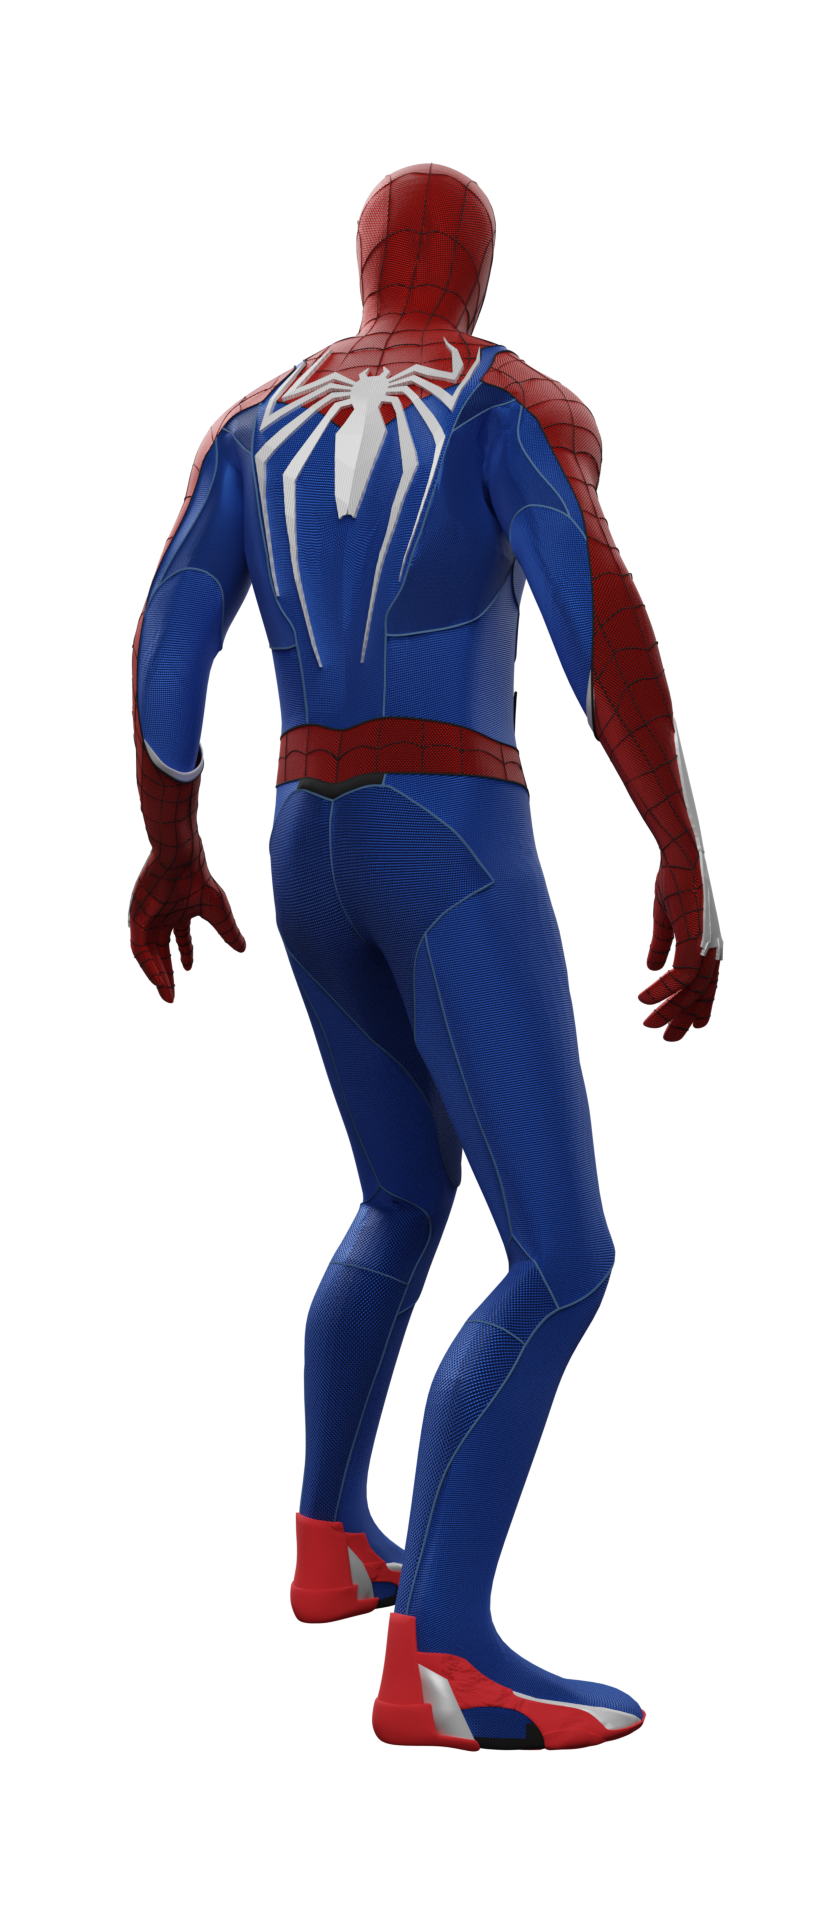
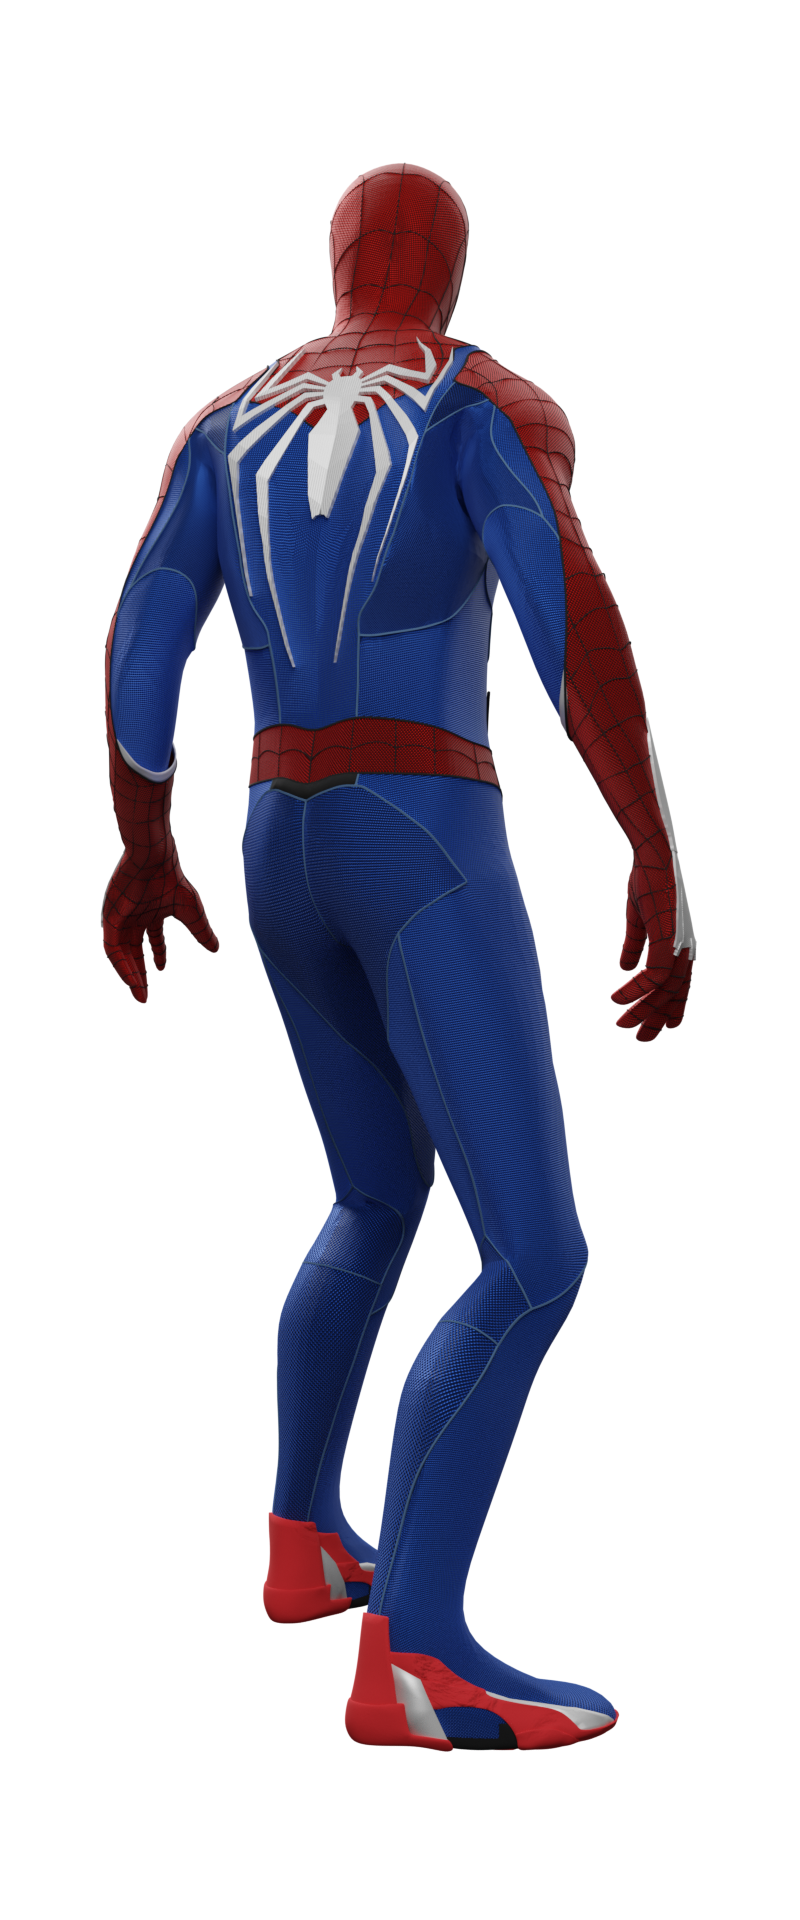
Add Peter Parker head to main page

Changed region(s): [[0.125, 0.0625, 0.875, 0.9375], [0.5938, 0.7812, 0.625, 0.8125]]

diff --git a/src/components/home/Home.js b/src/components/home/Home.js
@@ -59,8 +59,8 @@ function Home() {
         <Flex gap="6" direction="column">
           <ImagePopup src="images/3d/ps5_full_suit/stance.png" />
           <div className="reel">
-            <ImagePopup src="images/3d/hand.png" />
             <ImagePopup src="images/3d/webshooter/sample.png" />
+            <ImagePopup src="images/3d/parker_head.png" />
             <ImagePopup src="images/3d/normal_mask.png" />
             <ImagePopup src="images/3d/symbiote_mask.png" />
           </div>

diff --git a/src/components/3d/3d.js b/src/components/3d/3d.js
@@ -25,7 +25,6 @@ function FullSuit() {
       <ImageRotation path="images/3d/ps5_full_suit/rotation_stance/" />
       <DateLog date="October 2, 2023" />
       <ImagePopup src="images/3d/ps5_full_suit/stance.png" />
-
       <Documentation
         text={ThreeDInfo.fullSuit}
         src="images/3d/spiderman_low_poly_scope.png"
